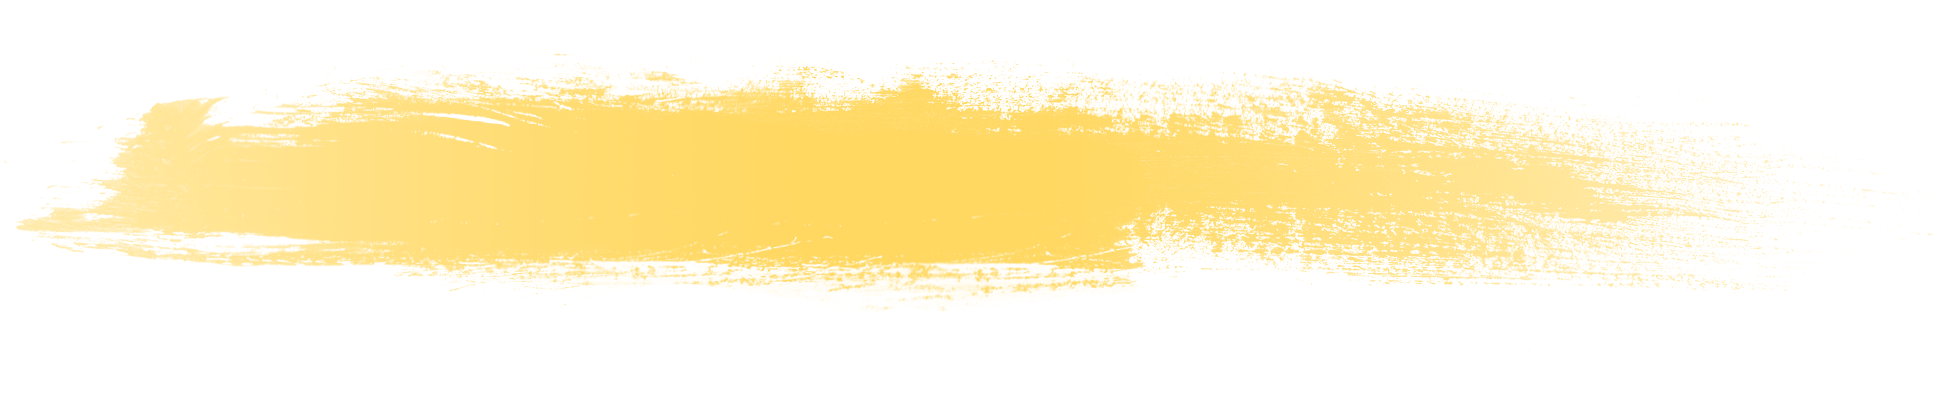
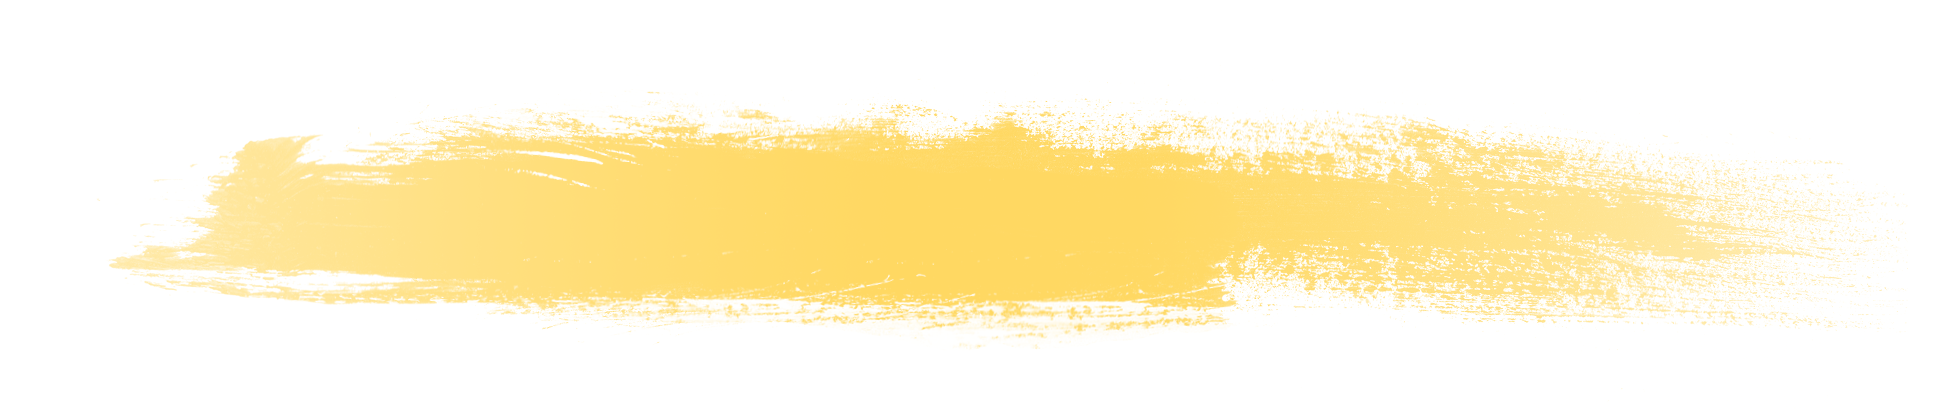
cross changes

Changed region(s): [[0.0, 0.1562, 0.9653, 0.8125]]

diff --git a/solution/css/styles.css b/solution/css/styles.css
@@ -147,7 +147,7 @@ section.reach.contact.we-can-help h2.last-h2 {
     background-position: center;
     background-size: contain;
     height: 120px;
-    line-height: 105px;
+    line-height: 120px;
     font-size: 35px;
     font-weight: 800;
     text-transform: capitalize;
@@ -174,7 +174,7 @@ section.reach.contact.we-can-help h2.last-h2 {
         background-position: center;
         background-size: cover;
         height: 60px;
-        line-height: 53px;
+        line-height: 60px;
         font-size: 25px;
         font-weight: 800;
         text-transform: capitalize;

diff --git a/solution/index.php b/solution/index.php
@@ -78,7 +78,7 @@
                 </div>
             </div>
 
-            <section class="img-we-can-help">
+<!--            <section class="img-we-can-help">
                 <img src="img/top-brush.png" alt="top brush"/>
             </section>
             <section class="reach contact we-can-help">
@@ -88,7 +88,7 @@
             </section>
             <section class="img-we-can-help">
                 <img src="img/bottom-brush.png" alt="bottom brush"/>
-            </section>
+            </section>-->
 
             <section id="next-step">
                 <div>
@@ -170,7 +170,7 @@
                         </div>
                     </div>
                 </div>
-                <img class="flag-img" src="img/bottom image.png" alt="flag"/>
+                <img class="flag-img" src="img/bottom image.jpg" alt="flag"/>
             </section>
             <?php include('../assets/inc/footer.php'); ?>
             <!-- /wrapper -->
